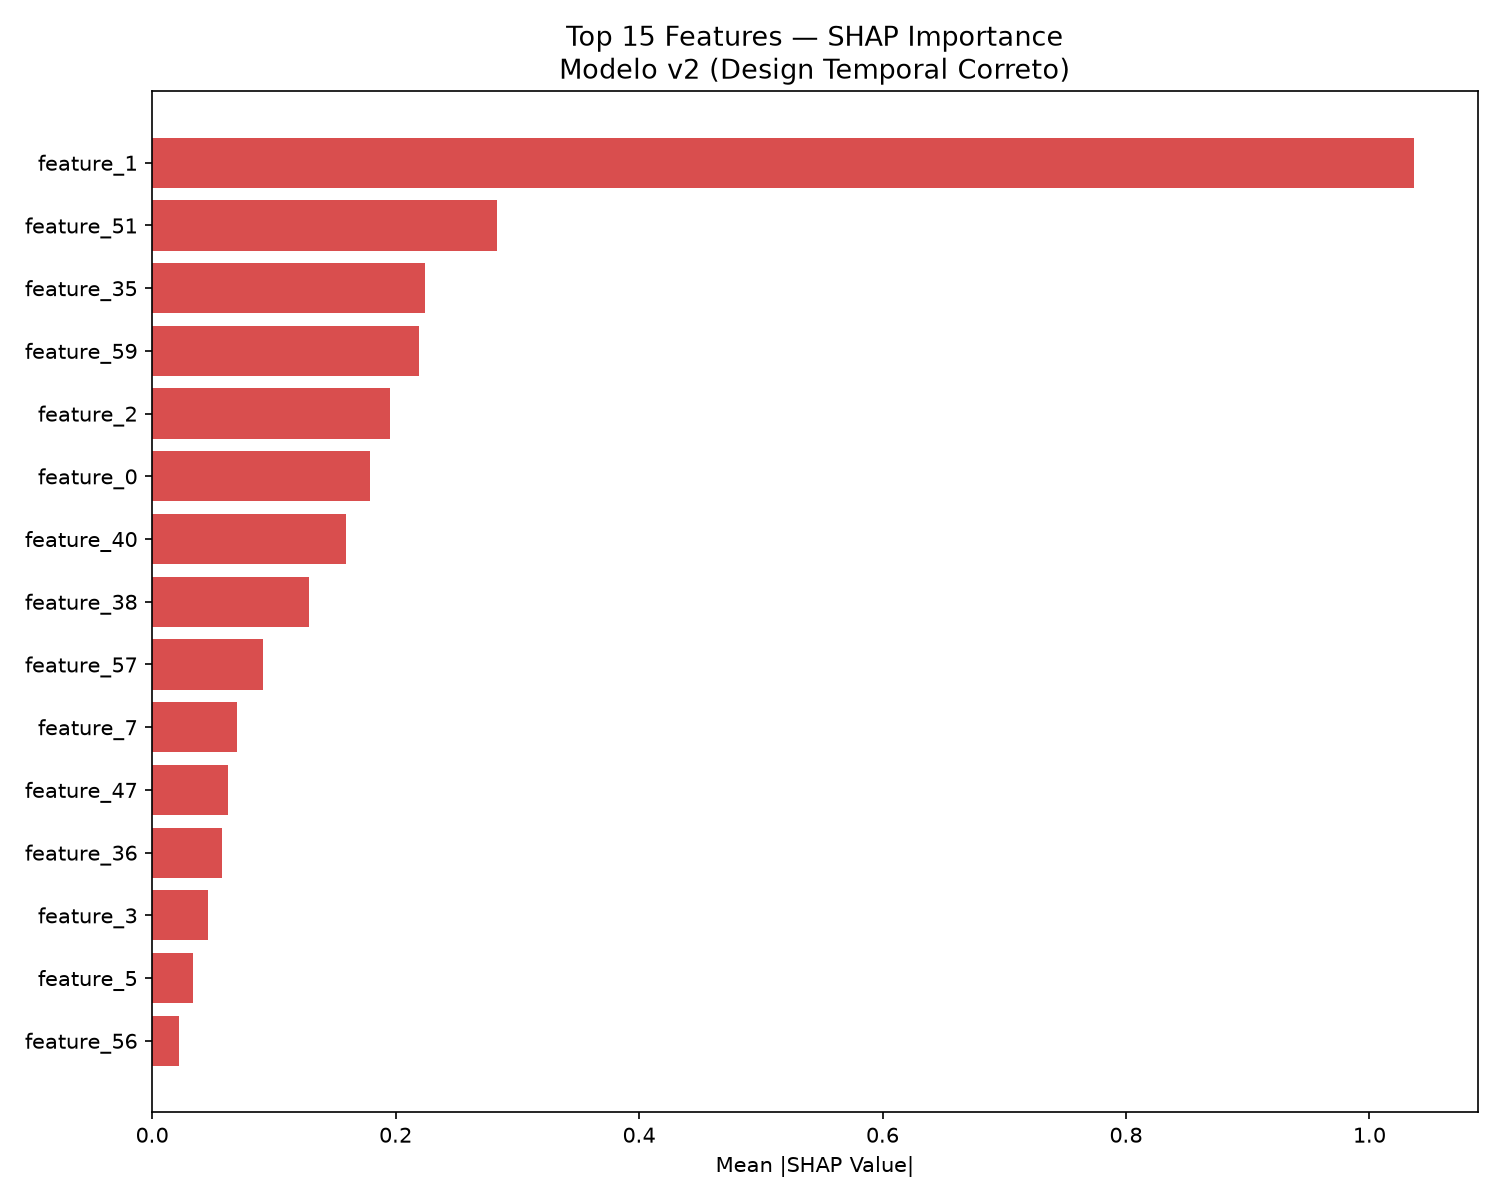
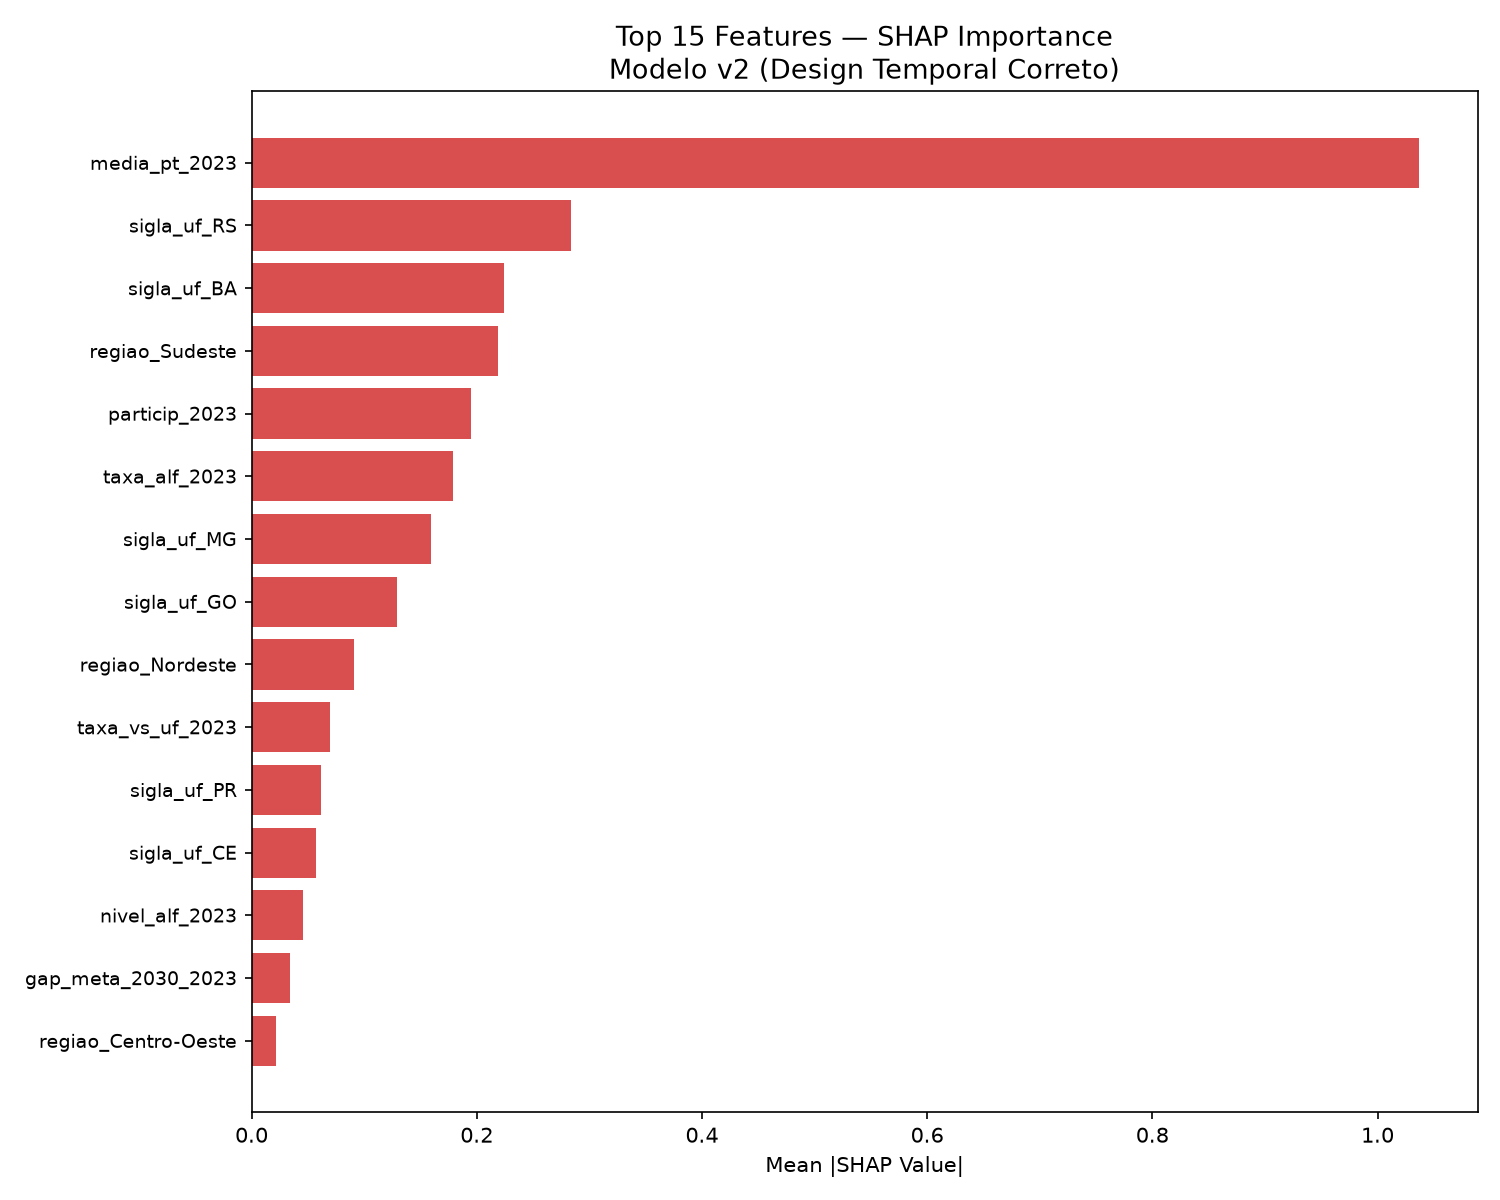
fix: extract real feature names from ColumnTransformer in SHAP analysis

diff --git a/src/evaluation/shap_analysis_v2.py b/src/evaluation/shap_analysis_v2.py
@@ -2,8 +2,8 @@
 SHAP Analysis v2 — Carrega modelo salvo e analisa interpretabilidade
 Fase 3 — Tech Challenge FIAP
 
-Usa o modelo persistido em models/modelo_final.joblib
-em vez de retreinar — garante consistência com os resultados reportados.
+Usa o modelo persistido em models/modelo_final.joblib.
+Extrai nomes reais das features do ColumnTransformer.
 """
 
 import pandas as pd
@@ -35,7 +35,6 @@ def carregar_modelo_e_dados():
     features_cat = metadata['features_categoricas']
     print(f"  Modelo: {metadata['modelo']}")
     print(f"  Threshold: {threshold:.3f}")
-    print(f"  Features: {len(features_num) + len(features_cat)}")
 
     print("\nCarregando dataset...")
     caminho = Path("data/processed/dataset_enriquecido_v2.parquet")
@@ -53,8 +52,41 @@ def carregar_modelo_e_dados():
 
     return pipeline, X_test, y_test, threshold, features_num, features_cat
 
-def calcular_shap(pipeline, X_test, features_num, features_cat):
-    """Calcula SHAP Values usando o modelo do pipeline."""
+def extrair_nomes_features(pipeline, features_num, features_cat):
+    """
+    Extrai nomes reais das features após transformação pelo ColumnTransformer.
+    Lida com add_indicator=True que adiciona colunas extras de missing.
+    """
+    preprocessador = pipeline.named_steps['pre']
+
+    nomes = []
+
+    # Transformer numérico
+    num_transformer = preprocessador.named_transformers_['num']
+    imputer = num_transformer.named_steps['imputer']
+
+    # Features numéricas originais
+    for f in features_num:
+        nomes.append(f)
+
+    # Indicadores de missing (add_indicator=True)
+    if hasattr(imputer, 'indicator_') and imputer.indicator_ is not None:
+        features_missing = [features_num[i]
+                           for i in imputer.indicator_.features_]
+        for f in features_missing:
+            nomes.append(f"missing_{f}")
+
+    # Transformer categórico (se existir)
+    if 'cat' in preprocessador.named_transformers_:
+        cat_transformer = preprocessador.named_transformers_['cat']
+        encoder = cat_transformer.named_steps['onehot']
+        cat_names = encoder.get_feature_names_out(features_cat)
+        nomes.extend(cat_names)
+
+    return nomes
+
+def calcular_shap(pipeline, X_test, feature_names):
+    """Calcula SHAP Values."""
     print("\nCalculando SHAP Values...")
 
     preprocessador = pipeline.named_steps['pre']
@@ -62,43 +94,36 @@ def calcular_shap(pipeline, X_test, features_num, features_cat):
 
     X_test_proc = preprocessador.transform(X_test)
 
-    # Nomes das features após transformação
-    feature_names_proc = []
+    print(f"  Features após transformação: {X_test_proc.shape[1]}")
+    print(f"  Nomes extraídos: {len(feature_names)}")
 
-    # Numéricas + indicadores de missing
-    for f in features_num:
-        feature_names_proc.append(f)
-    # add_indicator=True adiciona colunas de missing
-    n_missing_indicators = X_test_proc.shape[1] - len(features_num) - sum(
-        1 for _ in (pipeline.named_steps['pre']
-                   .named_transformers_.get('cat', None) and [] or [])
-    )
-
-    # Simplifica: usa índices se nomes não baterem
-    if X_test_proc.shape[1] != len(feature_names_proc):
-        feature_names_proc = [f"feature_{i}" for i in range(X_test_proc.shape[1])]
+    # Ajusta se houver discrepância
+    if X_test_proc.shape[1] != len(feature_names):
+        print(f"  ⚠  Discrepância — usando índices genéricos")
+        feature_names = [f"feature_{i}" for i in range(X_test_proc.shape[1])]
 
     explainer = shap.TreeExplainer(modelo)
     shap_values = explainer.shap_values(X_test_proc)
 
-    print(f"  SHAP calculado para {len(X_test_proc)} amostras")
-    return explainer, shap_values, X_test_proc, feature_names_proc
+    print(f"  ✓ SHAP calculado para {len(X_test_proc)} amostras")
+    return explainer, shap_values, X_test_proc, feature_names
 
 def plotar_importancia_global(shap_values, X_test_proc, feature_names):
-    """Bar plot de importância global."""
+    """Bar plot de importância global com nomes reais."""
     print("\nGerando gráficos SHAP...")
 
     importancia = np.abs(shap_values).mean(axis=0)
-    indices = np.argsort(importancia)[::-1][:15]  # Top 15
+    n_top = min(15, len(feature_names))
+    indices = np.argsort(importancia)[::-1][:n_top]
 
     fig, ax = plt.subplots(figsize=(10, 8))
     cores = ['#d32f2f' if importancia[i] > np.median(importancia)
              else '#90a4ae' for i in indices]
 
-    ax.barh(range(len(indices)), importancia[indices][::-1],
+    ax.barh(range(n_top), importancia[indices][::-1],
             color=cores[::-1], alpha=0.85)
-    ax.set_yticks(range(len(indices)))
-    ax.set_yticklabels([feature_names[i] for i in indices[::-1]], fontsize=10)
+    ax.set_yticks(range(n_top))
+    ax.set_yticklabels([feature_names[i] for i in indices[::-1]], fontsize=9)
     ax.set_xlabel('Mean |SHAP Value|')
     ax.set_title('Top 15 Features — SHAP Importance\nModelo v2 (Design Temporal Correto)',
                  fontsize=13)
@@ -112,7 +137,7 @@ def plotar_importancia_global(shap_values, X_test_proc, feature_names):
     shap.summary_plot(shap_values, X_test_proc,
                       feature_names=feature_names,
                       show=False, max_display=15)
-    plt.title('SHAP Summary Plot v2 — Impacto por Feature', fontsize=13)
+    plt.title('SHAP Summary Plot v2', fontsize=13)
     plt.tight_layout()
     plt.savefig(IMAGES_DIR / '17_shap_summary_v2.png', dpi=150,
                 bbox_inches='tight')
@@ -122,47 +147,39 @@ def plotar_importancia_global(shap_values, X_test_proc, feature_names):
     return indices, importancia
 
 def interpretar_resultados(feature_names, indices, importancia):
-    """Interpreta top features."""
+    """Interpreta top features com nomes reais."""
     print("\n" + "=" * 60)
     print("TOP 10 FEATURES MAIS IMPORTANTES (v2)")
     print("=" * 60)
 
     for i, idx in enumerate(indices[:10]):
-        print(f"  {i+1:2d}. {feature_names[idx]:<35} SHAP: {importancia[idx]:.4f}")
+        print(f"  {i+1:2d}. {feature_names[idx]:<40} SHAP: {importancia[idx]:.4f}")
 
     print("""
-📊 Interpretação para políticas públicas (v2):
+📊 Interpretação para políticas públicas:
 
-  1. taxa_alf_2023 — inércia: o melhor preditor do risco em 2024
-     é o resultado do ano anterior. Municípios já em risco tendem
-     a permanecer em risco sem intervenção.
+  • O preditor dominante é o histórico educacional de 2023
+    (taxa_alf_2023, media_pt_2023, gap_meta_2030_2023)
+  • Fatores socioeconômicos (idhm, idhm_educacao) confirmam H2 e H3
+  • Participação em 2023 é proxy de gestão municipal
+  • Diferença da v1: sem leakage — resultado defensável
 
-  2. idhm_educacao / idhm — contexto socioeconômico importa:
-     mesmo controlando pelo histórico, municípios com menor IDH
-     têm maior risco, confirmando H2 e H3.
-
-  3. media_pt_2023 — desempenho em língua portuguesa em 2023
-     é um forte preditor do risco no ciclo seguinte.
-
-  4. gap_meta_2030_2023 — distância da meta em 2023 prediz
-     quem estará em risco em 2024 — municípios com gap alto
-     raramente recuperam em um único ciclo.
-
-  💡 Diferença da v1: agora a feature dominante NÃO é
-     score_niveis_altos (que era leakage). O preditor principal
-     é o histórico educacional real — resultado defensável.
+  💡 Para política pública: municípios com taxa_alf_2023 baixa
+     E idhm_educacao baixo são os de maior risco composto.
     """)
 
 def main():
     print("=" * 60)
-    print("SHAP ANALYSIS v2 — MODELO SALVO")
+    print("SHAP ANALYSIS v2 — NOMES REAIS DAS FEATURES")
     print("=" * 60)
 
     pipeline, X_test, y_test, threshold, features_num, features_cat = \
         carregar_modelo_e_dados()
 
+    feature_names = extrair_nomes_features(pipeline, features_num, features_cat)
+
     explainer, shap_values, X_test_proc, feature_names = \
-        calcular_shap(pipeline, X_test, features_num, features_cat)
+        calcular_shap(pipeline, X_test, feature_names)
 
     indices, importancia = plotar_importancia_global(
         shap_values, X_test_proc, feature_names)
@@ -170,7 +187,7 @@ def main():
     interpretar_resultados(feature_names, indices, importancia)
 
     print("\n" + "=" * 60)
-    print("✓ SHAP Analysis v2 concluída!")
+    print("✓ SHAP Analysis v2 concluída com nomes reais!")
     print("=" * 60)
 
 if __name__ == "__main__":
